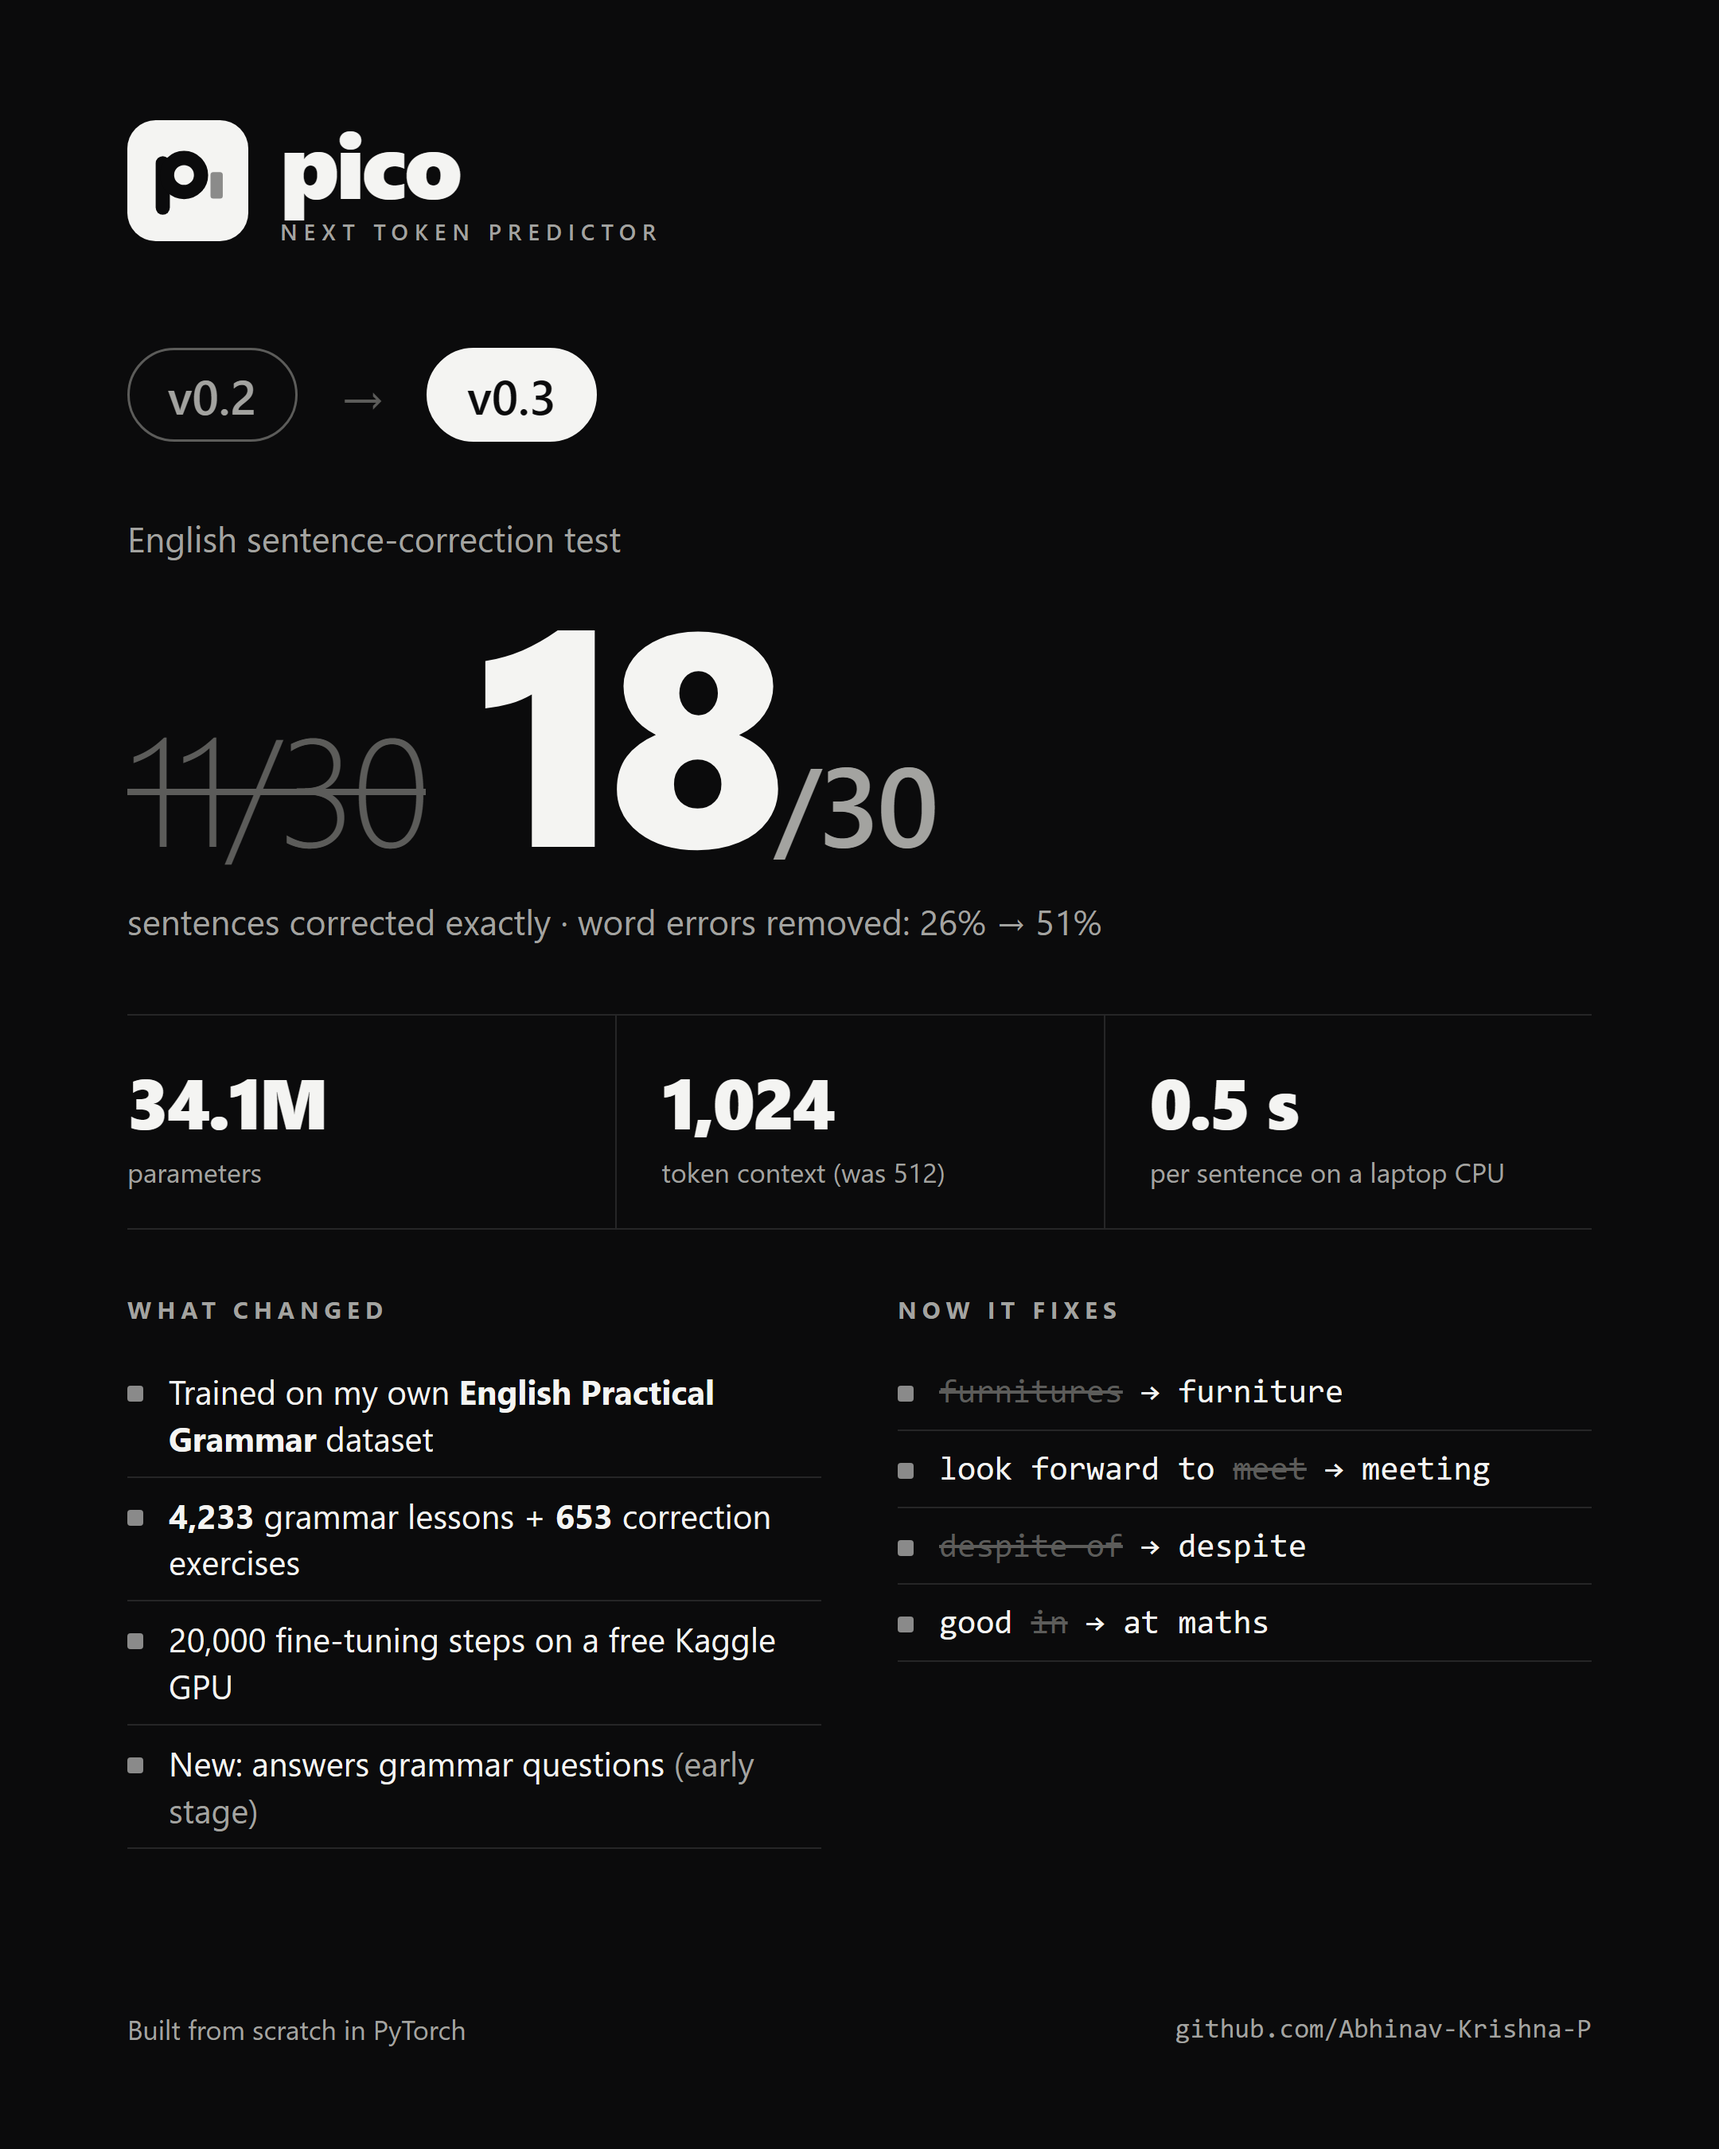
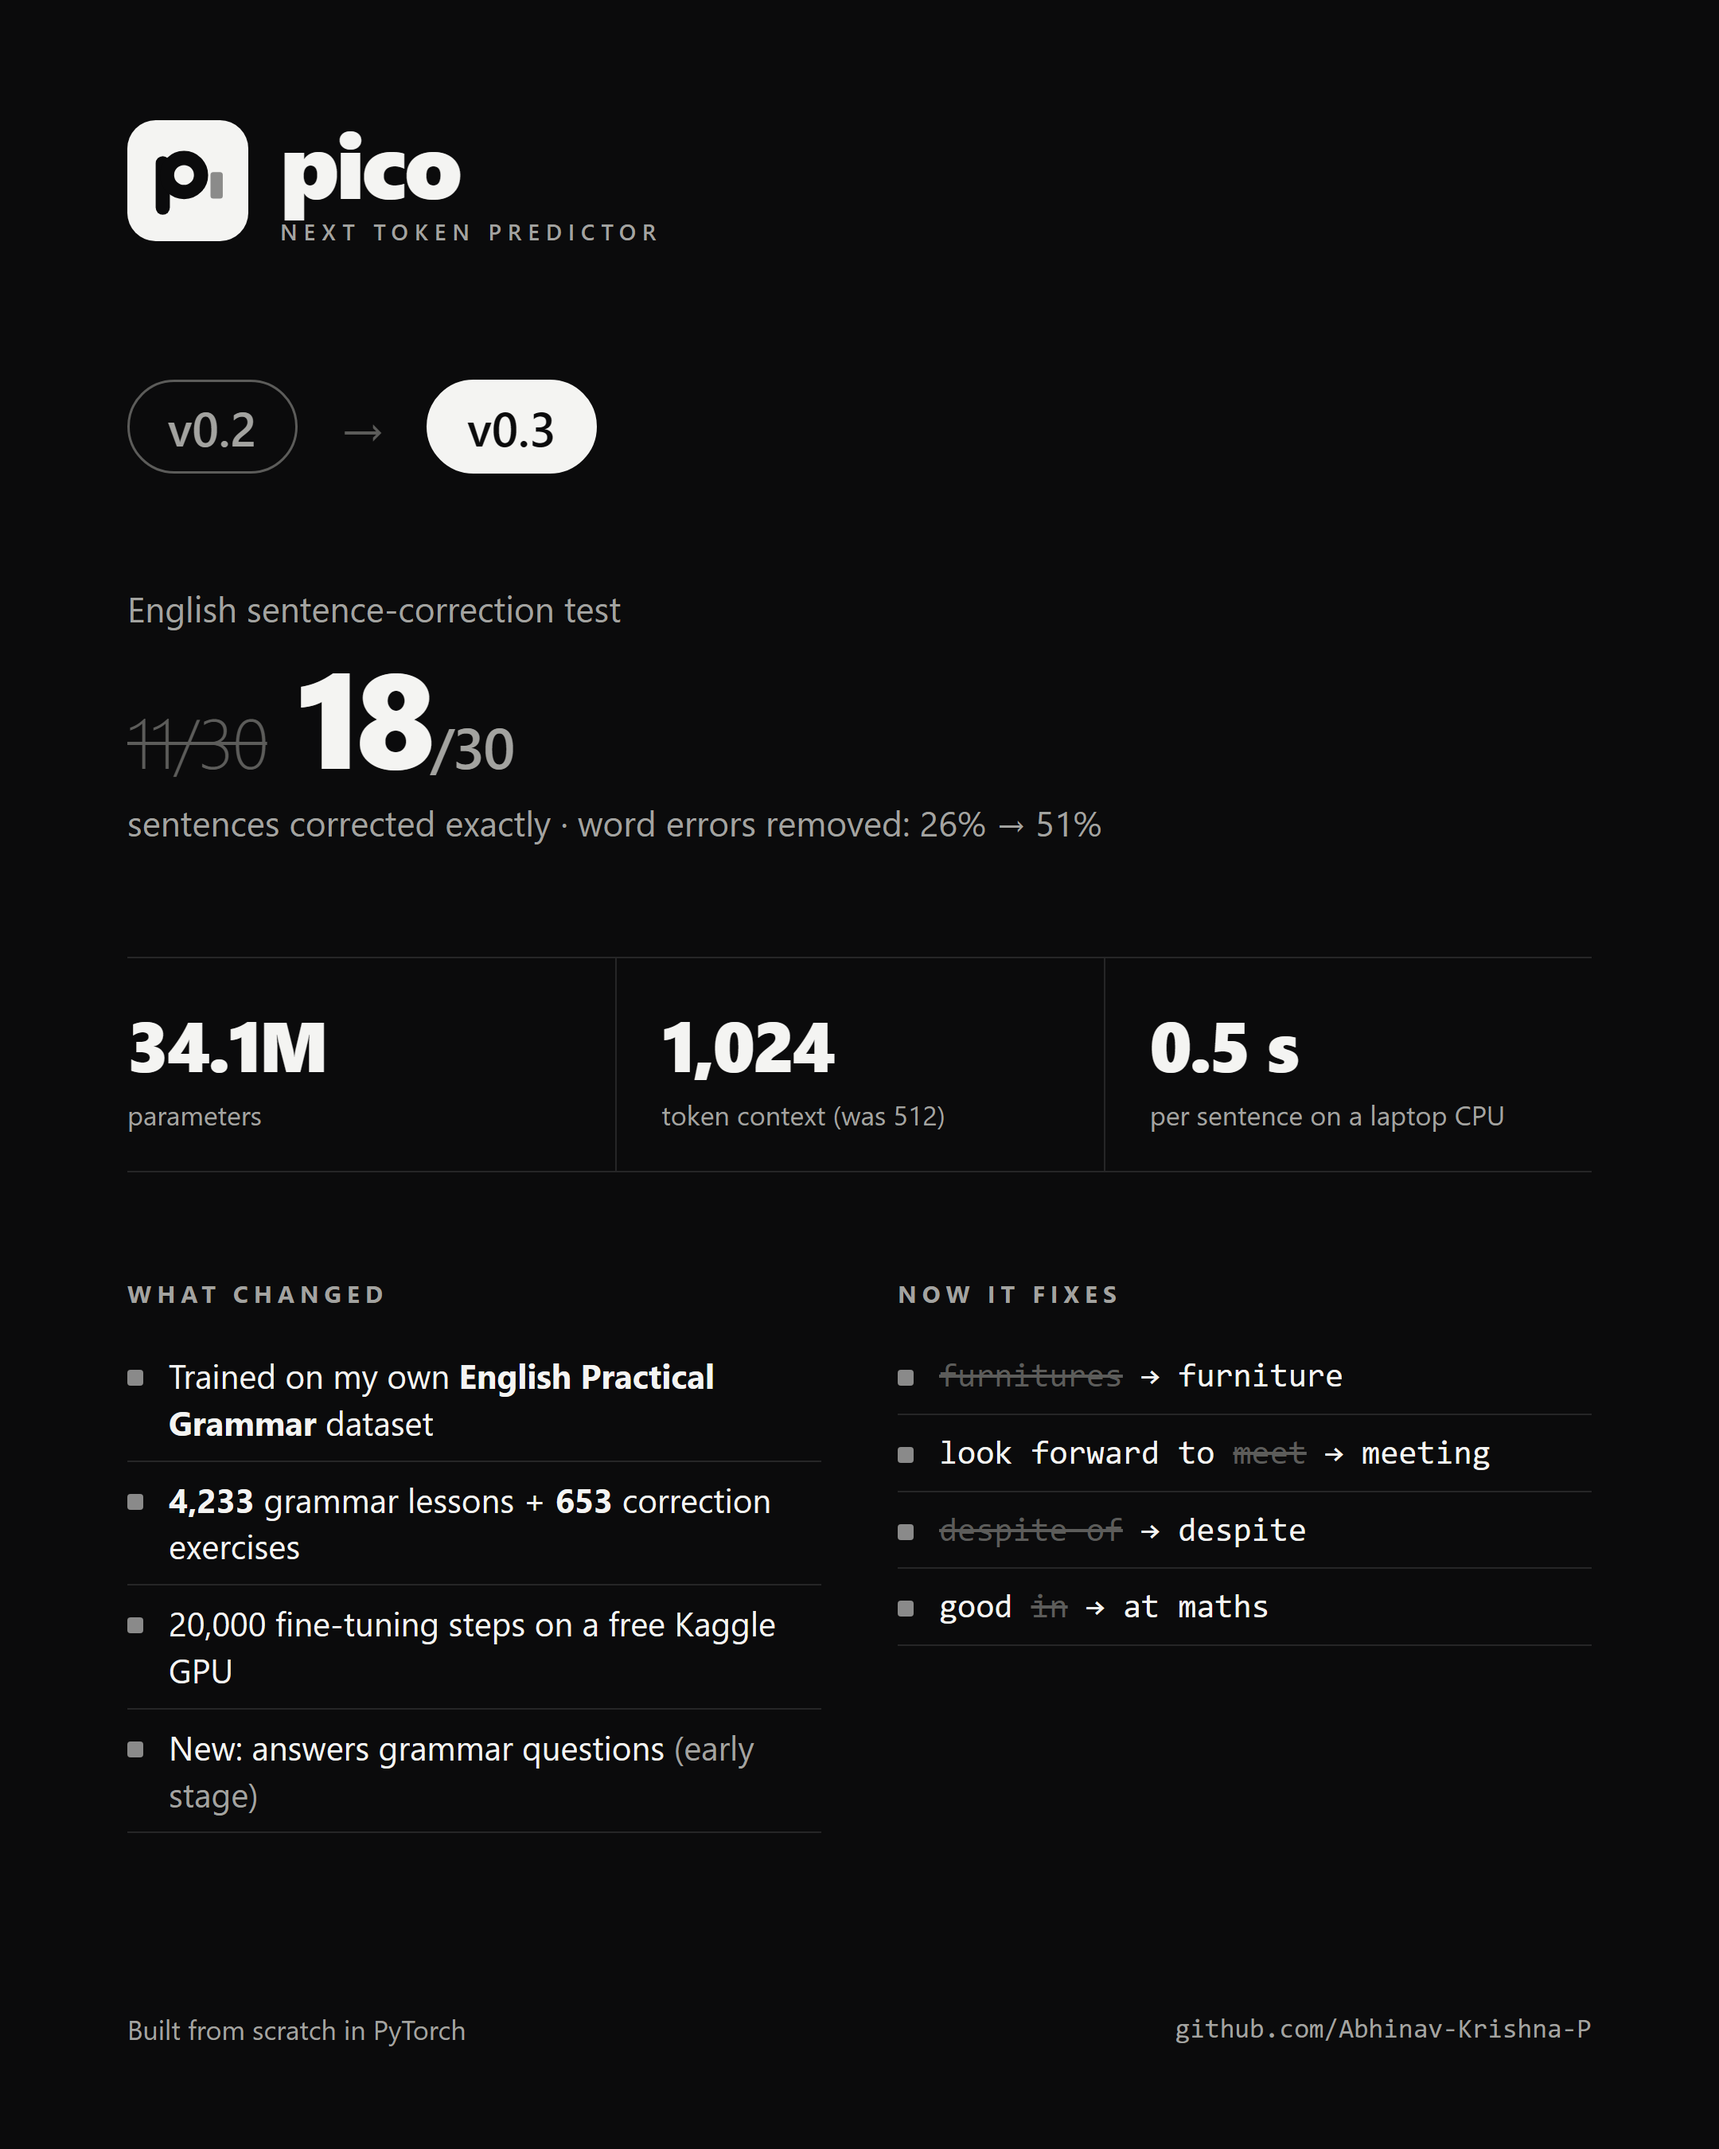
Update poster: smaller, minimal score

diff --git a/assets/poster_v0.3_update.html b/assets/poster_v0.3_update.html
@@ -13,26 +13,26 @@
   header h1 { font-size:58px; font-weight:800; letter-spacing:-2px; line-height:1; }
   header .tag { font-size:14px; letter-spacing:4px; color:var(--dim); font-weight:600; margin-top:6px; }
 
-  .versions { margin-top:64px; display:flex; align-items:center; gap:26px; font-size:30px; font-weight:600; }
+  .versions { margin-top:84px; display:flex; align-items:center; gap:26px; font-size:30px; font-weight:600; }
   .pill { border:1.5px solid var(--faint); color:var(--dim); border-radius:999px; padding:8px 24px; }
   .pill.now { border-color:var(--fg); color:var(--fg); background:var(--fg); color:var(--bg); }
   .arrow { color:var(--faint); font-size:34px; }
 
-  .hero { margin-top:46px; }
+  .hero { margin-top:70px; }
   .hero .label { font-size:22px; color:var(--dim); }
-  .score { display:flex; align-items:baseline; gap:30px; margin-top:6px; }
-  .score .old { font-size:96px; font-weight:300; color:var(--faint); letter-spacing:-3px; text-decoration:line-through; text-decoration-thickness:4px; }
-  .score .new { font-size:190px; font-weight:800; letter-spacing:-8px; line-height:1; }
-  .score .new small { font-size:70px; font-weight:600; color:var(--dim); letter-spacing:-2px; }
+  .score { display:flex; align-items:baseline; gap:18px; margin-top:10px; }
+  .score .old { font-size:44px; font-weight:300; color:var(--faint); letter-spacing:-1px; text-decoration:line-through; text-decoration-thickness:2px; }
+  .score .new { font-size:84px; font-weight:800; letter-spacing:-3px; line-height:1; }
+  .score .new small { font-size:36px; font-weight:600; color:var(--dim); letter-spacing:-1px; }
   .hero .sub { font-size:22px; color:var(--dim); margin-top:8px; }
 
-  .facts { margin-top:44px; display:grid; grid-template-columns:repeat(3, 1fr); border-top:1px solid var(--line); border-bottom:1px solid var(--line); }
+  .facts { margin-top:70px; display:grid; grid-template-columns:repeat(3, 1fr); border-top:1px solid var(--line); border-bottom:1px solid var(--line); }
   .fact { padding:24px 0; }
   .fact + .fact { border-left:1px solid var(--line); padding-left:28px; }
   .fact .v { font-size:44px; font-weight:800; letter-spacing:-1.5px; }
   .fact .k { font-size:17px; color:var(--dim); margin-top:4px; }
 
-  .cols { margin-top:40px; display:grid; grid-template-columns:1fr 1fr; gap:48px; }
+  .cols { margin-top:66px; display:grid; grid-template-columns:1fr 1fr; gap:48px; }
   h2 { font-size:15px; letter-spacing:3.5px; color:var(--dim); font-weight:700; margin-bottom:18px; }
   ul { list-style:none; }
   li { font-size:21px; line-height:1.4; padding:9px 0 9px 26px; position:relative; border-bottom:1px solid var(--line); }
